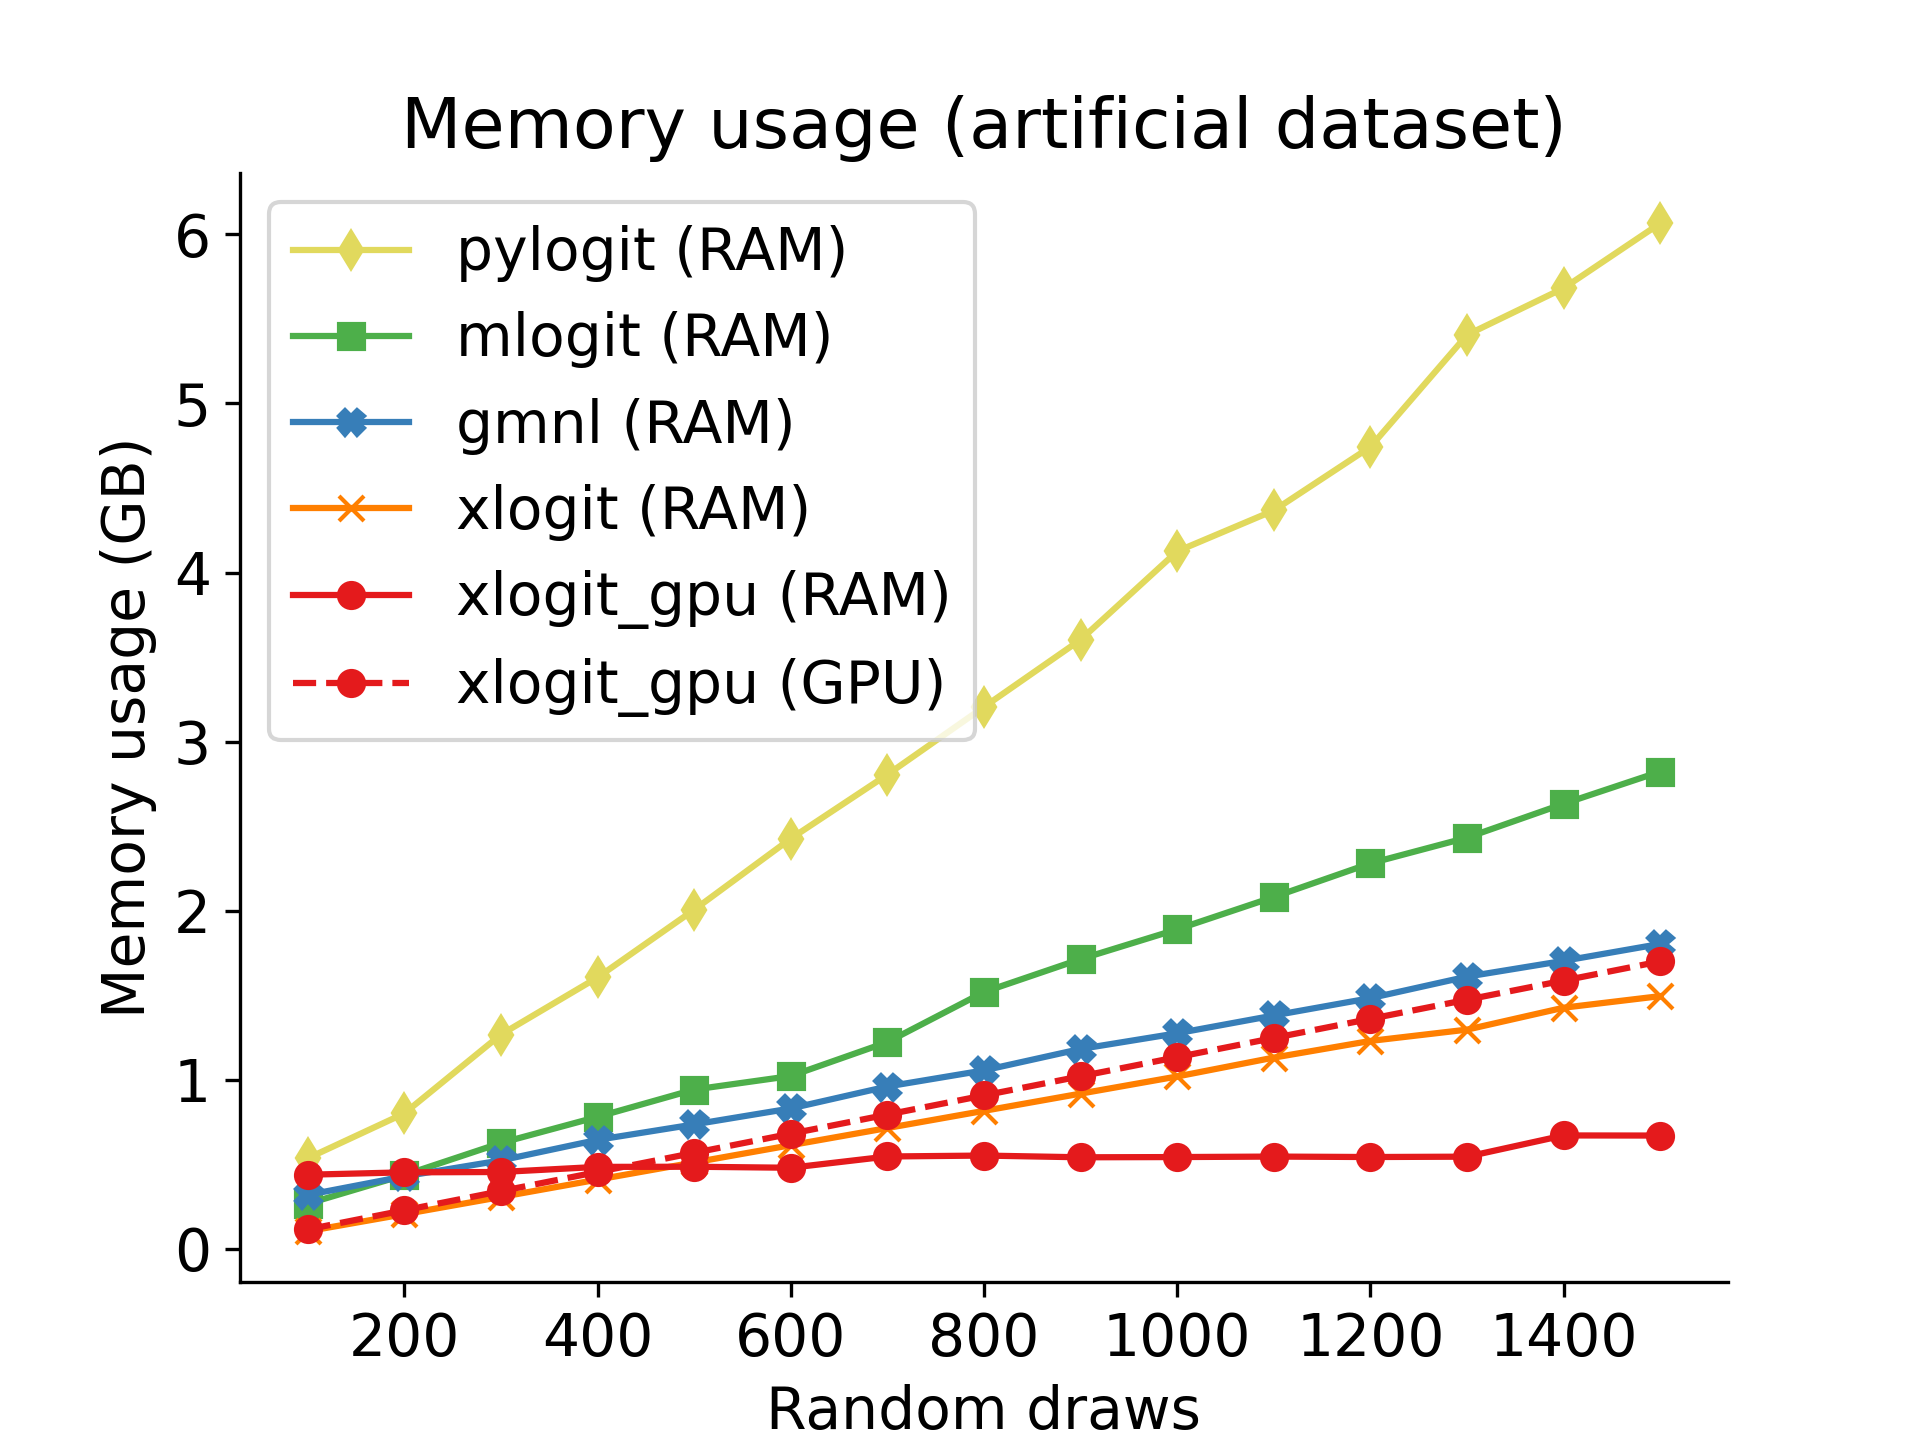
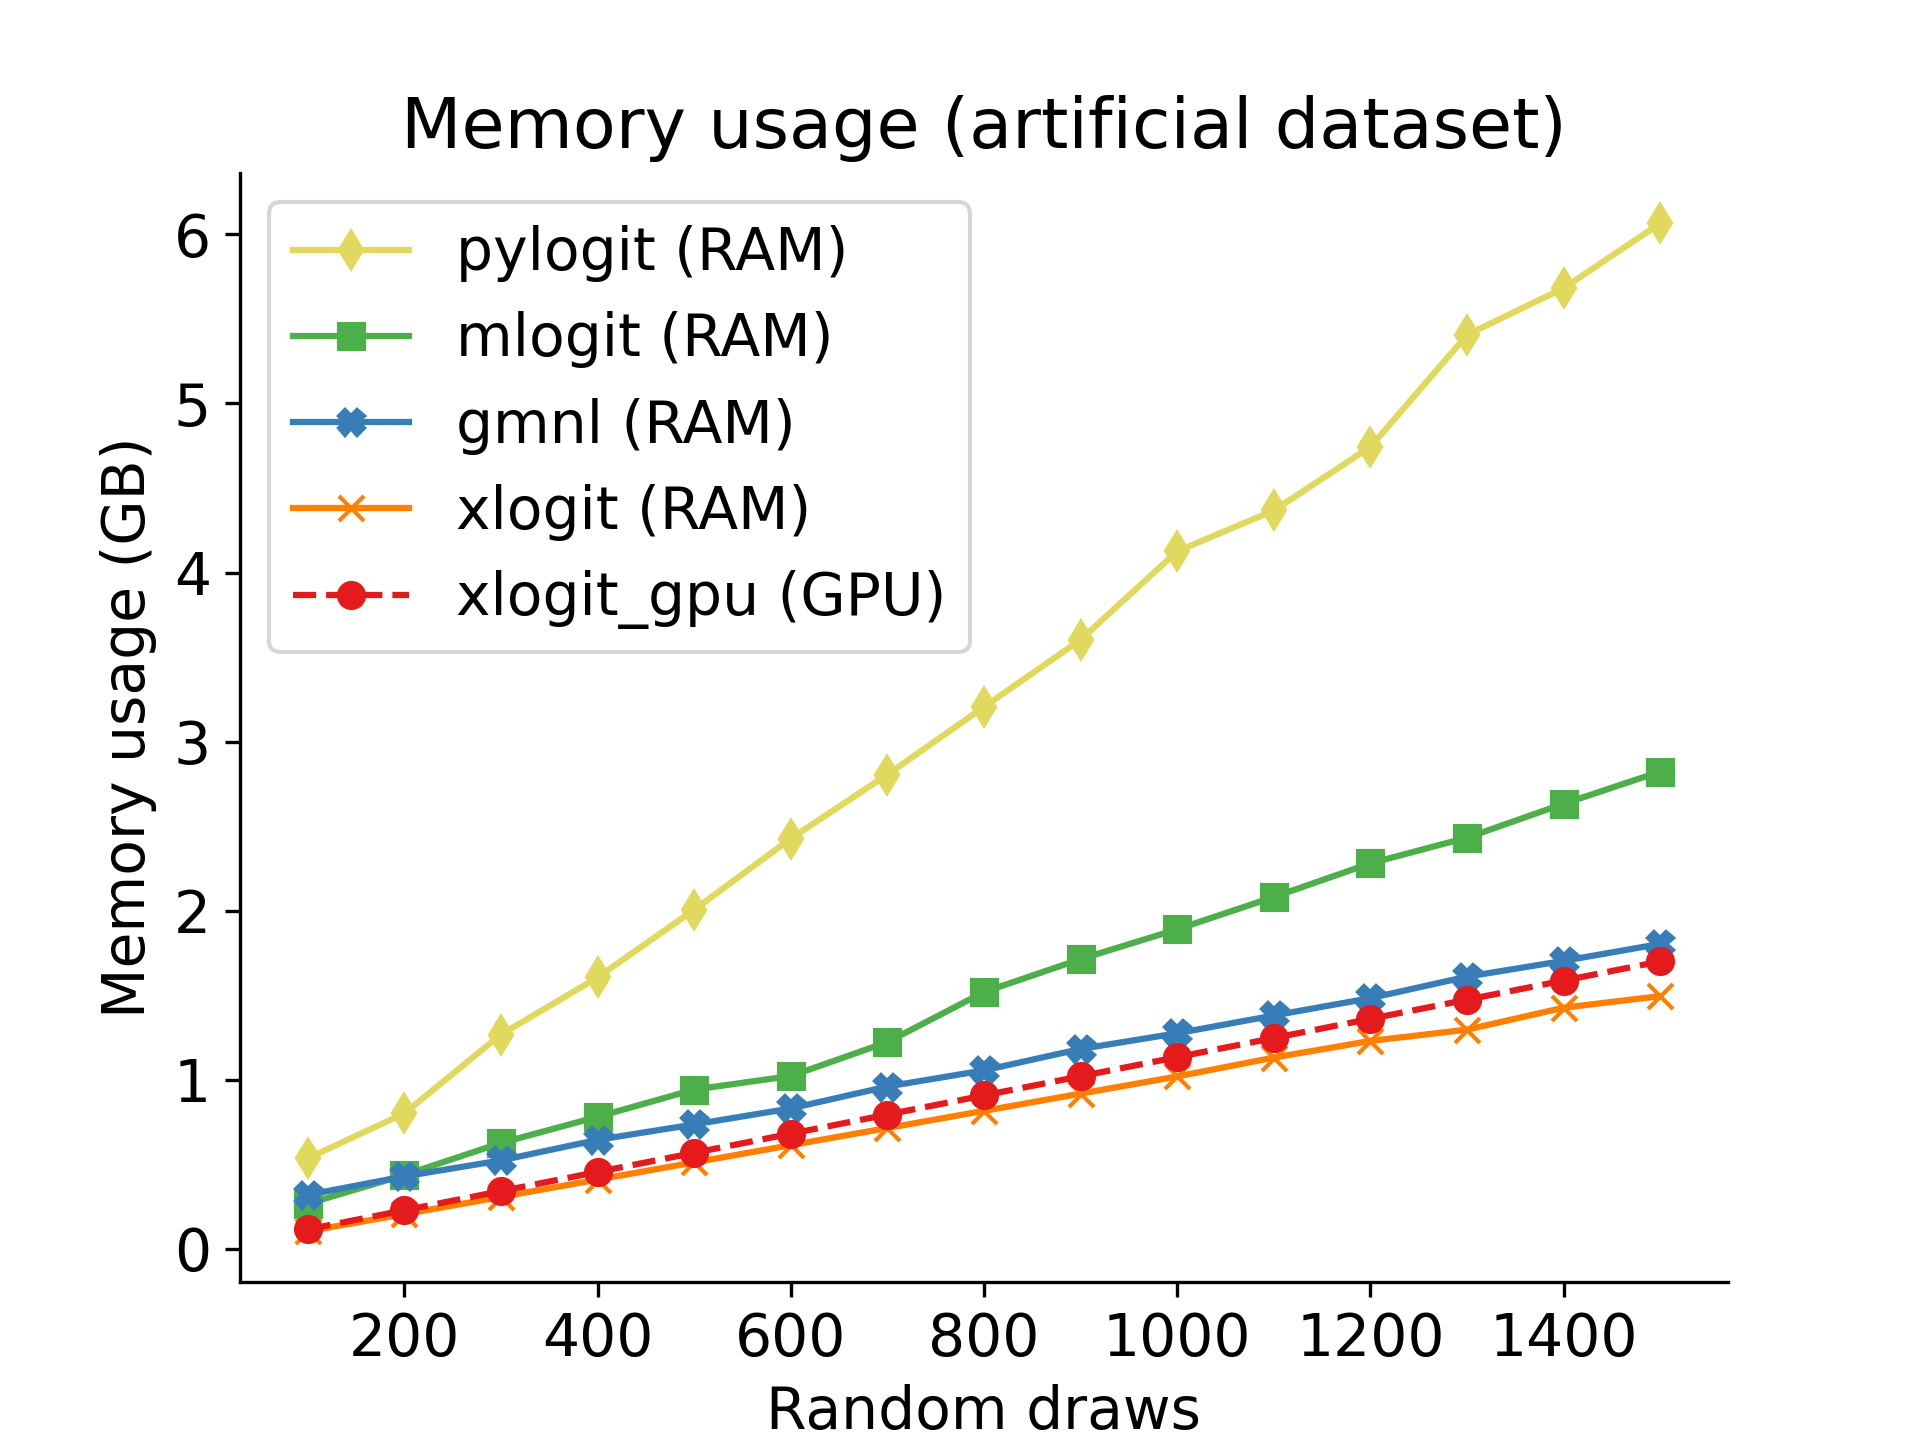
Benchmark plots updated

Changed region(s): [[0.1562, 0.1562, 0.5312, 0.5312], [0.1562, 0.7812, 0.875, 0.8438]]

diff --git a/examples/benchmark/plot_results.py b/examples/benchmark/plot_results.py
@@ -17,7 +17,7 @@ colors = ["#e1d95d", #yellow pylogit
           "#00b5aa", #lblue apollo
           ]
 
-markers = ['d', 's', 'X', 'x', 'o', '^', '|']
+markers = ['d', 's', 'X', 'x', 'o', '$V$', '^', '|']
 
 # ==========================================
 # pylogit and mlogit benchmark
@@ -30,13 +30,13 @@ libs = ['pylogit', 'mlogit', 'gmnl', 'xlogit', 'xlogit_gpu']
 def plot_memory_benchmark(dataset):
     dfe = df[df.dataset == dataset]
     plt.figure()
-    for i, lib in enumerate(libs):
+    for i, lib in enumerate(libs[:-1]):
         d = dfe[dfe.library == lib][["draws", "ram"]].values.T
         plt.plot(d[0], d[1], marker=markers[i], c=colors[i])
     d = dfe[dfe.library == "xlogit_gpu"][["draws", "gpu"]].values.T
     plt.plot(d[0], d[1], marker=markers[4], c=colors[4],
              linestyle="--")
-    plt.legend([i + " (RAM)" for i in libs] + ["xlogit_gpu (GPU)"])
+    plt.legend([i + " (RAM)" for i in libs[:-1]] + ["xlogit_gpu (GPU)"])
     plt.xlabel("Random draws")
     plt.ylabel("Memory usage (GB)")
     plt.title("Memory usage ("+dataset+" dataset)")
